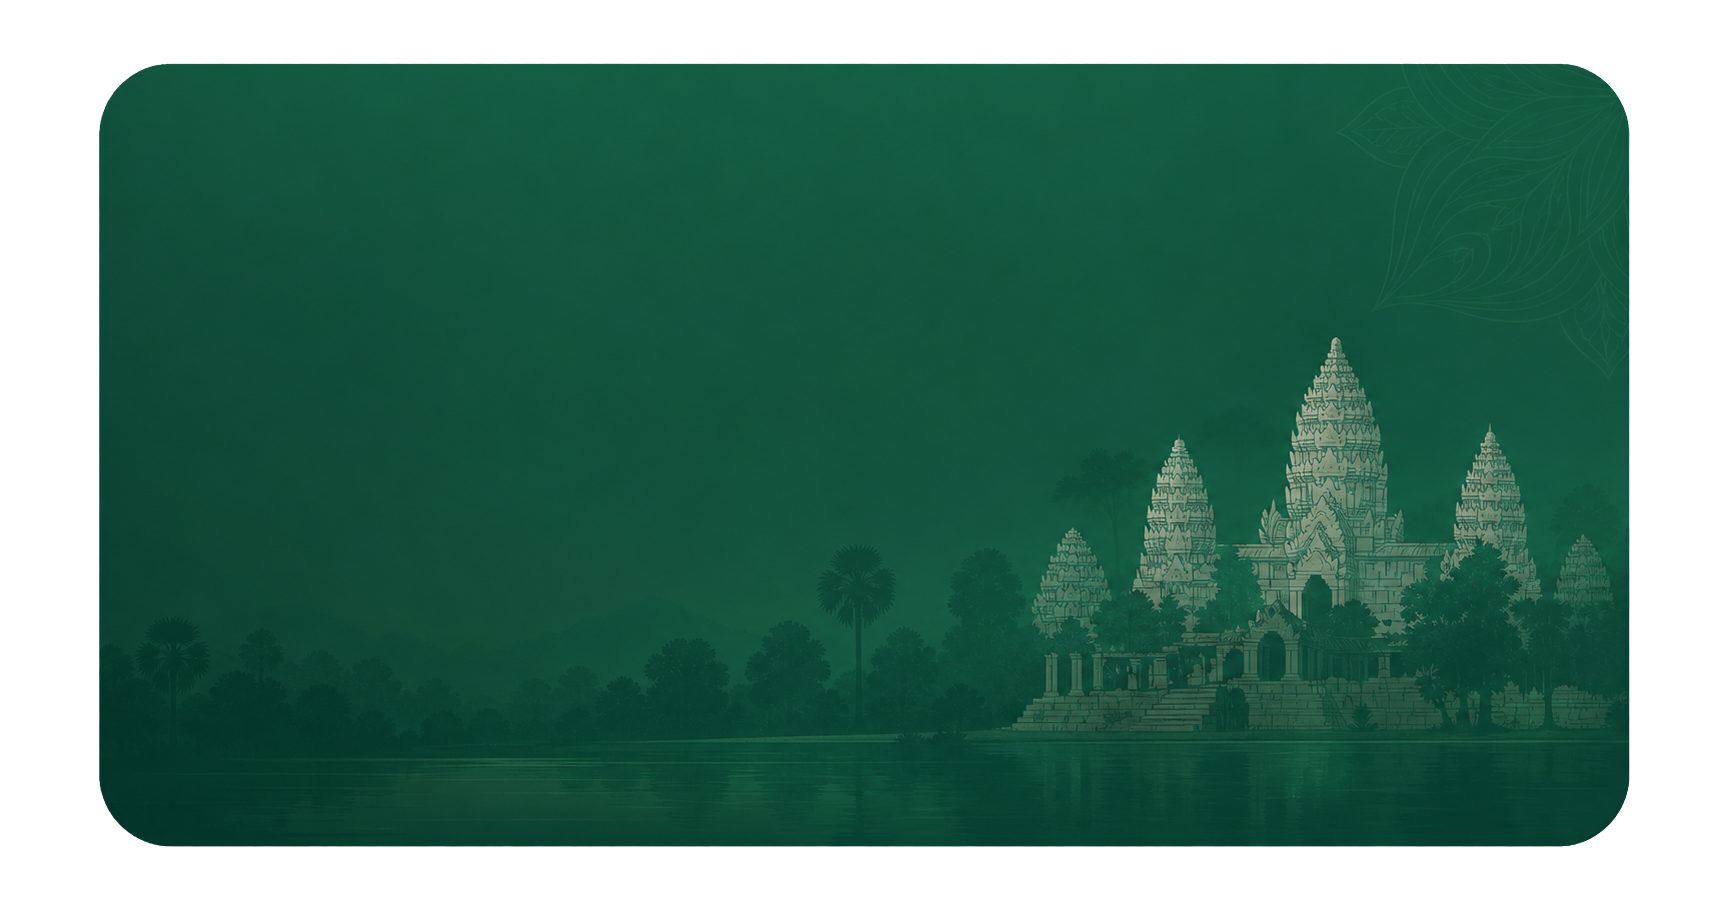
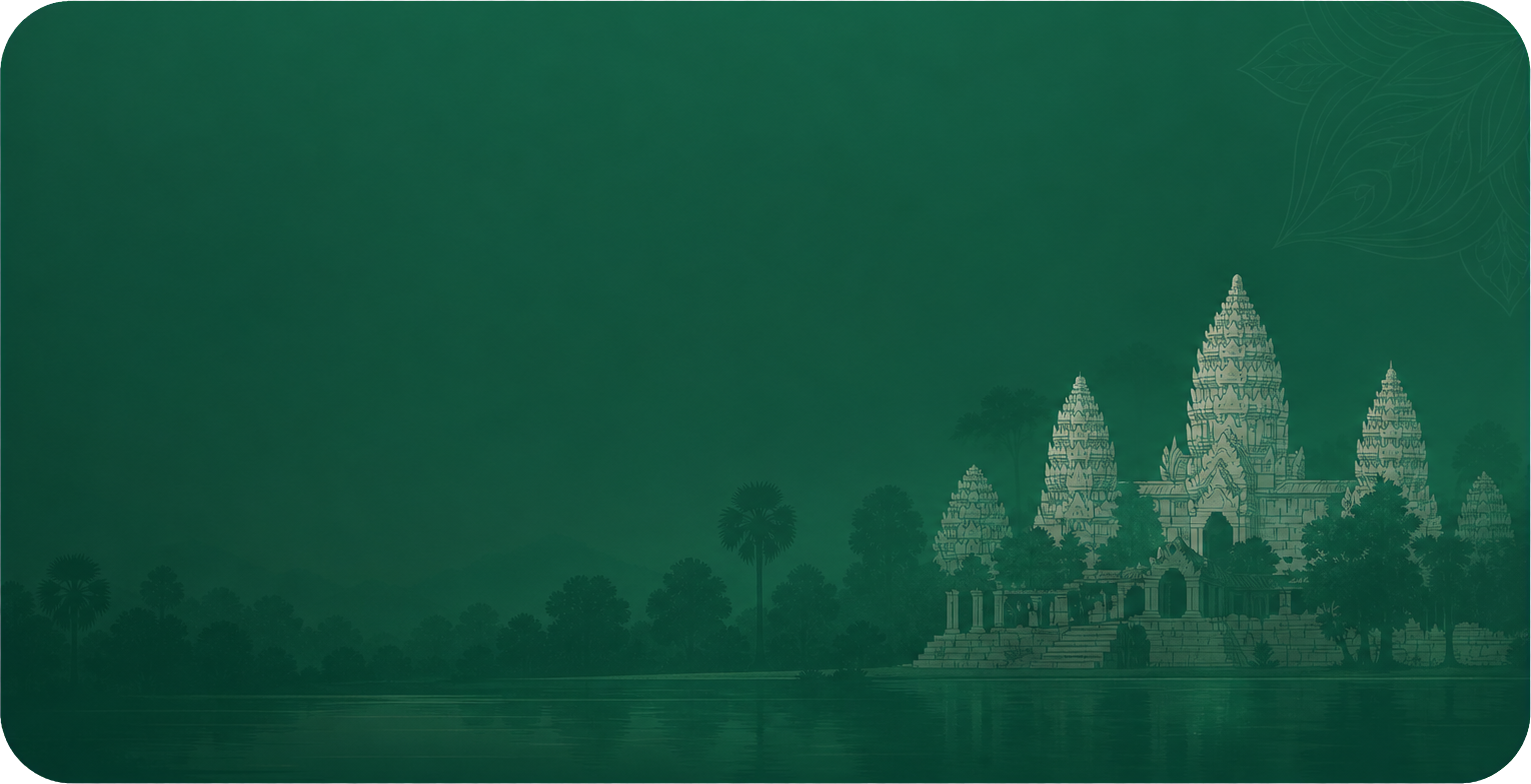
feat: update total balance card background with emerald gradient and matching asset

diff --git a/lib/features/wallets/presentation/widgets/total_balance_card.dart b/lib/features/wallets/presentation/widgets/total_balance_card.dart
@@ -30,6 +30,10 @@ class TotalBalanceCard extends StatelessWidget {
   Widget build(BuildContext context) {
     return Container(
       decoration: BoxDecoration(
+        // Emerald base fills the card edge-to-edge so the artwork's transparent
+        // margins/rounded corners read as part of the card instead of letting
+        // the page background show through as a lighter frame.
+        gradient: AppGradients.emerald,
         borderRadius: BorderRadius.circular(AppRadius.xxl),
         boxShadow: const [
           BoxShadow(
